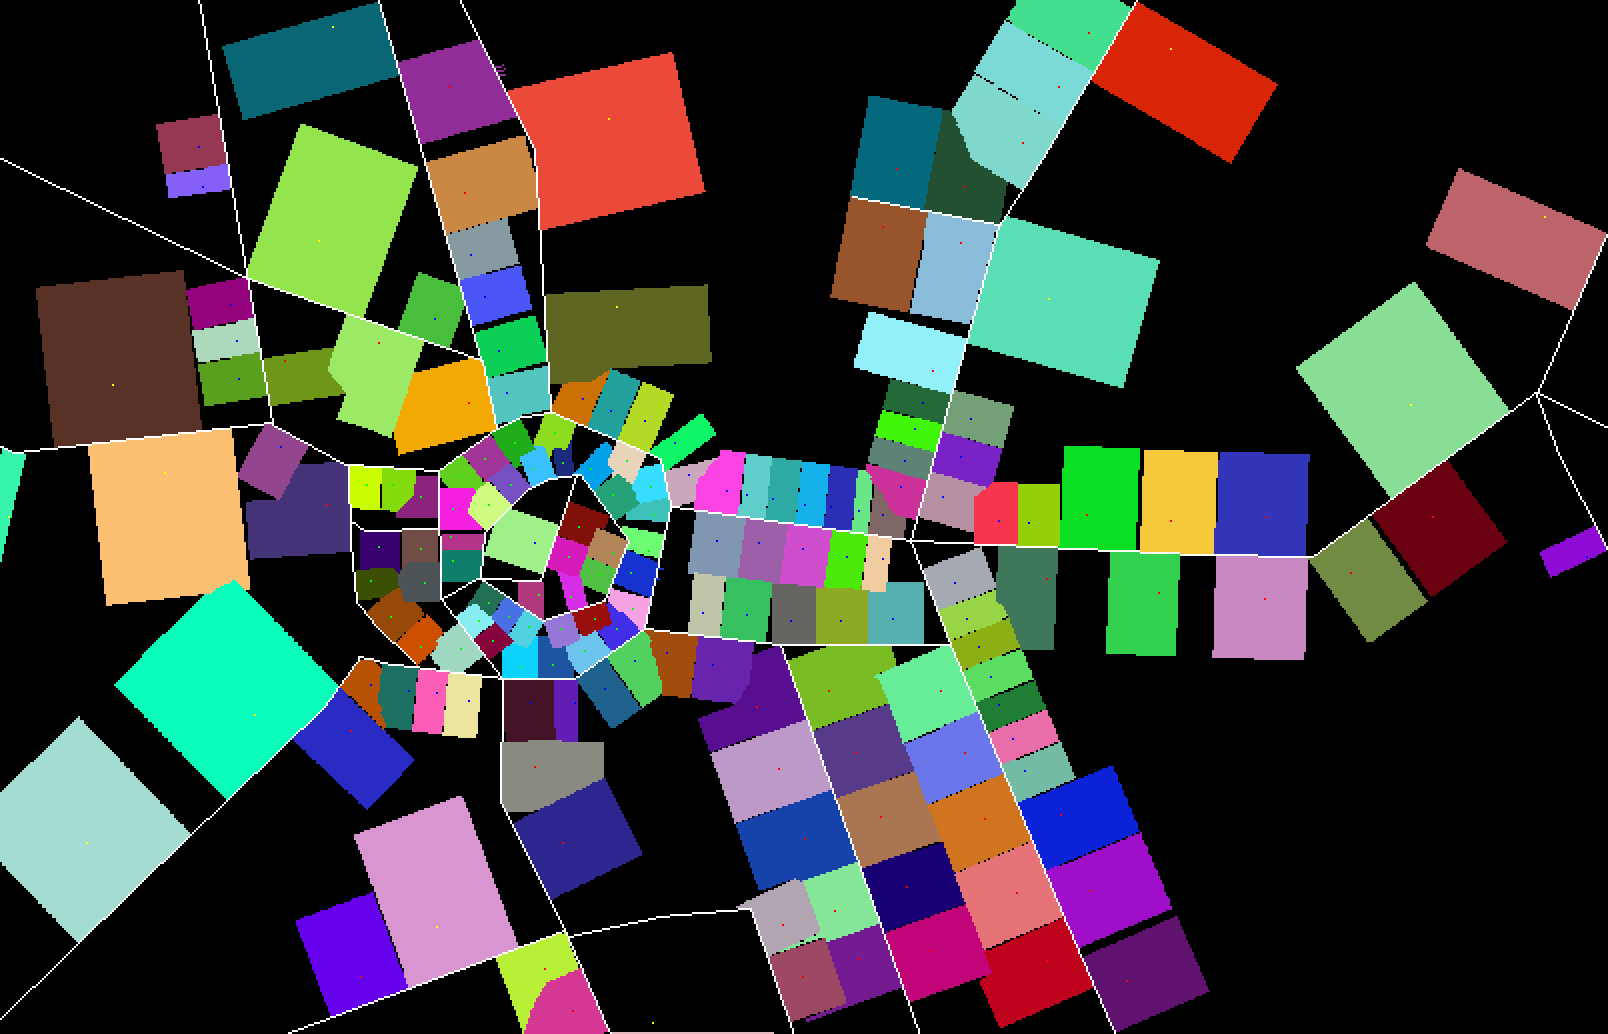
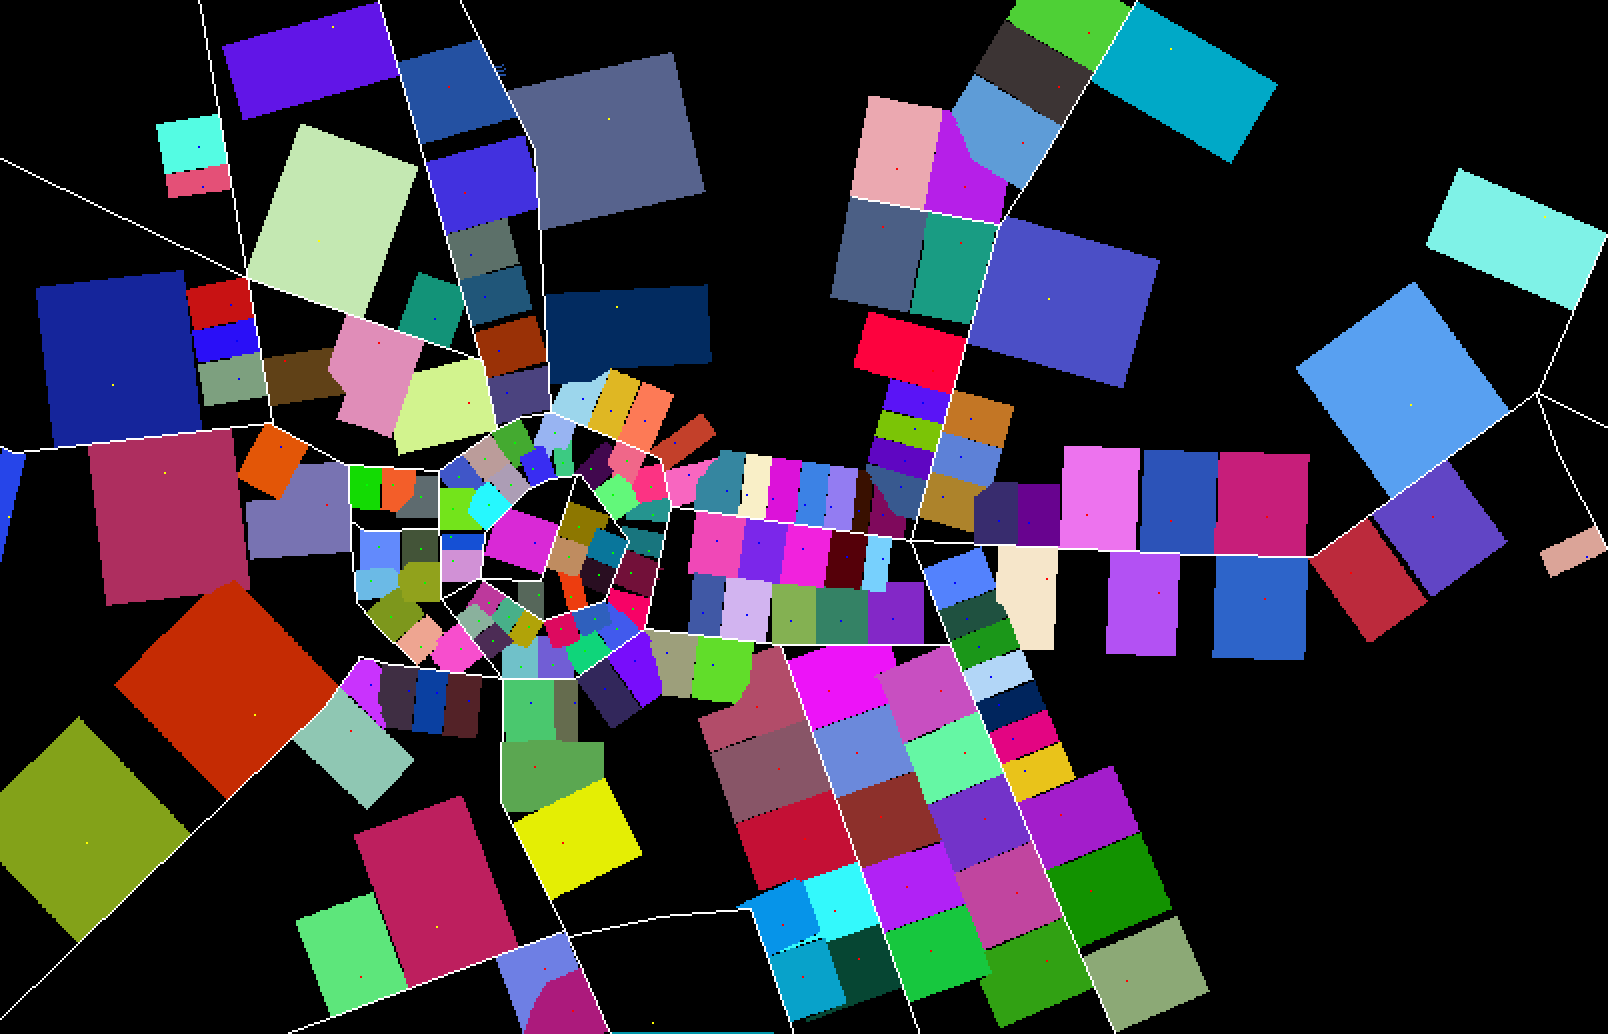
0823 geo-divide is done

diff --git a/parcel_geomotry.py b/parcel_geomotry.py
@@ -507,51 +507,51 @@ def load_raw_png(path, out_path):
 if __name__ == '__main__':
     # load_raw_png('parcel_real_raw.png', 'parcel_real_h2.png')
 
-    # load_data_from_png('parcel_real2.png')
-    # img = cv2.imread('parcel_real2.png')
-    # MarkNeighborsOfAllBuildings()
-    #
-    # indices = [118]
-    # # indices = range(0, len(Buildings))
-    # for index in indices:
-    #     generate_parcel(Buildings[index])
-    # for index in indices:
-    #     if Buildings[index].Redo:
-    #         Buildings[index].Borders.clear()
-    #         generate_parcel(Buildings[index])
-    # for index in indices:
-    #     if Buildings[index].Width == 15:
-    #         color = (255, 255, 0)
-    #     elif Buildings[index].Width == 25:
-    #         color = (255, 200, 150)
-    #     elif Buildings[index].Width == 50:
-    #         color = (200, 200, 255)
-    #     else:
-    #         color = (0, 200, 255)
-    #     Buildings[index].DrawLine(img, 1, color, 1)
-    # img = cv2.resize(img, (img.shape[1] * 2, img.shape[0] * 2), interpolation=cv2.INTER_NEAREST)
-    # cv2.imshow('img', img)
-    # cv2.waitKey(0)
-    # cv2.imwrite('geo_divide.png', img)
+    load_data_from_png('parcel_real2.png')
+    img = cv2.imread('parcel_real2.png')
+    MarkNeighborsOfAllBuildings()
 
-    # 单个地块生成测试
-    load_data_from_png('parcel_geo.png')
-    img = cv2.imread('parcel_geo.png')
-    img = cv2.resize(img, (1000, 1000), interpolation=cv2.INTER_NEAREST)
-    zoom = 5
-    mouse_state = 0
-    cv2.namedWindow('img')
-    cv2.setMouseCallback('img', mouse_event)
+    # indices = [118]
+    indices = range(0, len(Buildings))
+    for index in indices:
+        generate_parcel(Buildings[index])
+    for index in indices:
+        if Buildings[index].Redo:
+            Buildings[index].Borders.clear()
+            generate_parcel(Buildings[index])
+    for index in indices:
+        if Buildings[index].Width == 15:
+            color = (255, 255, 0)
+        elif Buildings[index].Width == 25:
+            color = (255, 200, 150)
+        elif Buildings[index].Width == 50:
+            color = (200, 200, 255)
+        else:
+            color = (0, 200, 255)
+        Buildings[index].DrawLine(img, 1, color, 1)
+    img = cv2.resize(img, (img.shape[1] * 2, img.shape[0] * 2), interpolation=cv2.INTER_NEAREST)
     cv2.imshow('img', img)
     cv2.waitKey(0)
-    # pos = (440, 377)
-    # building = FBuilding(0, 30, 30, (pos[0] / zoom, pos[1] / zoom))
-    # building.RoadConquest()
-    # building.RegionConquest()
-    # building.DrawLine(img, zoom, (255, 255, 0), 2)
-    # cv2.circle(img, pos, 3, (0, 0, 255), -1)
+    cv2.imwrite('geo_divide.png', img)
+
+    # # 单个地块生成测试
+    # load_data_from_png('parcel_geo.png')
+    # img = cv2.imread('parcel_geo.png')
+    # img = cv2.resize(img, (1000, 1000), interpolation=cv2.INTER_NEAREST)
+    # zoom = 5
+    # mouse_state = 0
+    # cv2.namedWindow('img')
+    # cv2.setMouseCallback('img', mouse_event)
     # cv2.imshow('img', img)
     # cv2.waitKey(0)
+    # # pos = (440, 377)
+    # # building = FBuilding(0, 30, 30, (pos[0] / zoom, pos[1] / zoom))
+    # # building.RoadConquest()
+    # # building.RegionConquest()
+    # # building.DrawLine(img, zoom, (255, 255, 0), 2)
+    # # cv2.circle(img, pos, 3, (0, 0, 255), -1)
+    # # cv2.imshow('img', img)
+    # # cv2.waitKey(0)
 
     # # 检查射线经过的像素的的情况
     # img = np.zeros((10, 10, 3), np.uint8)
